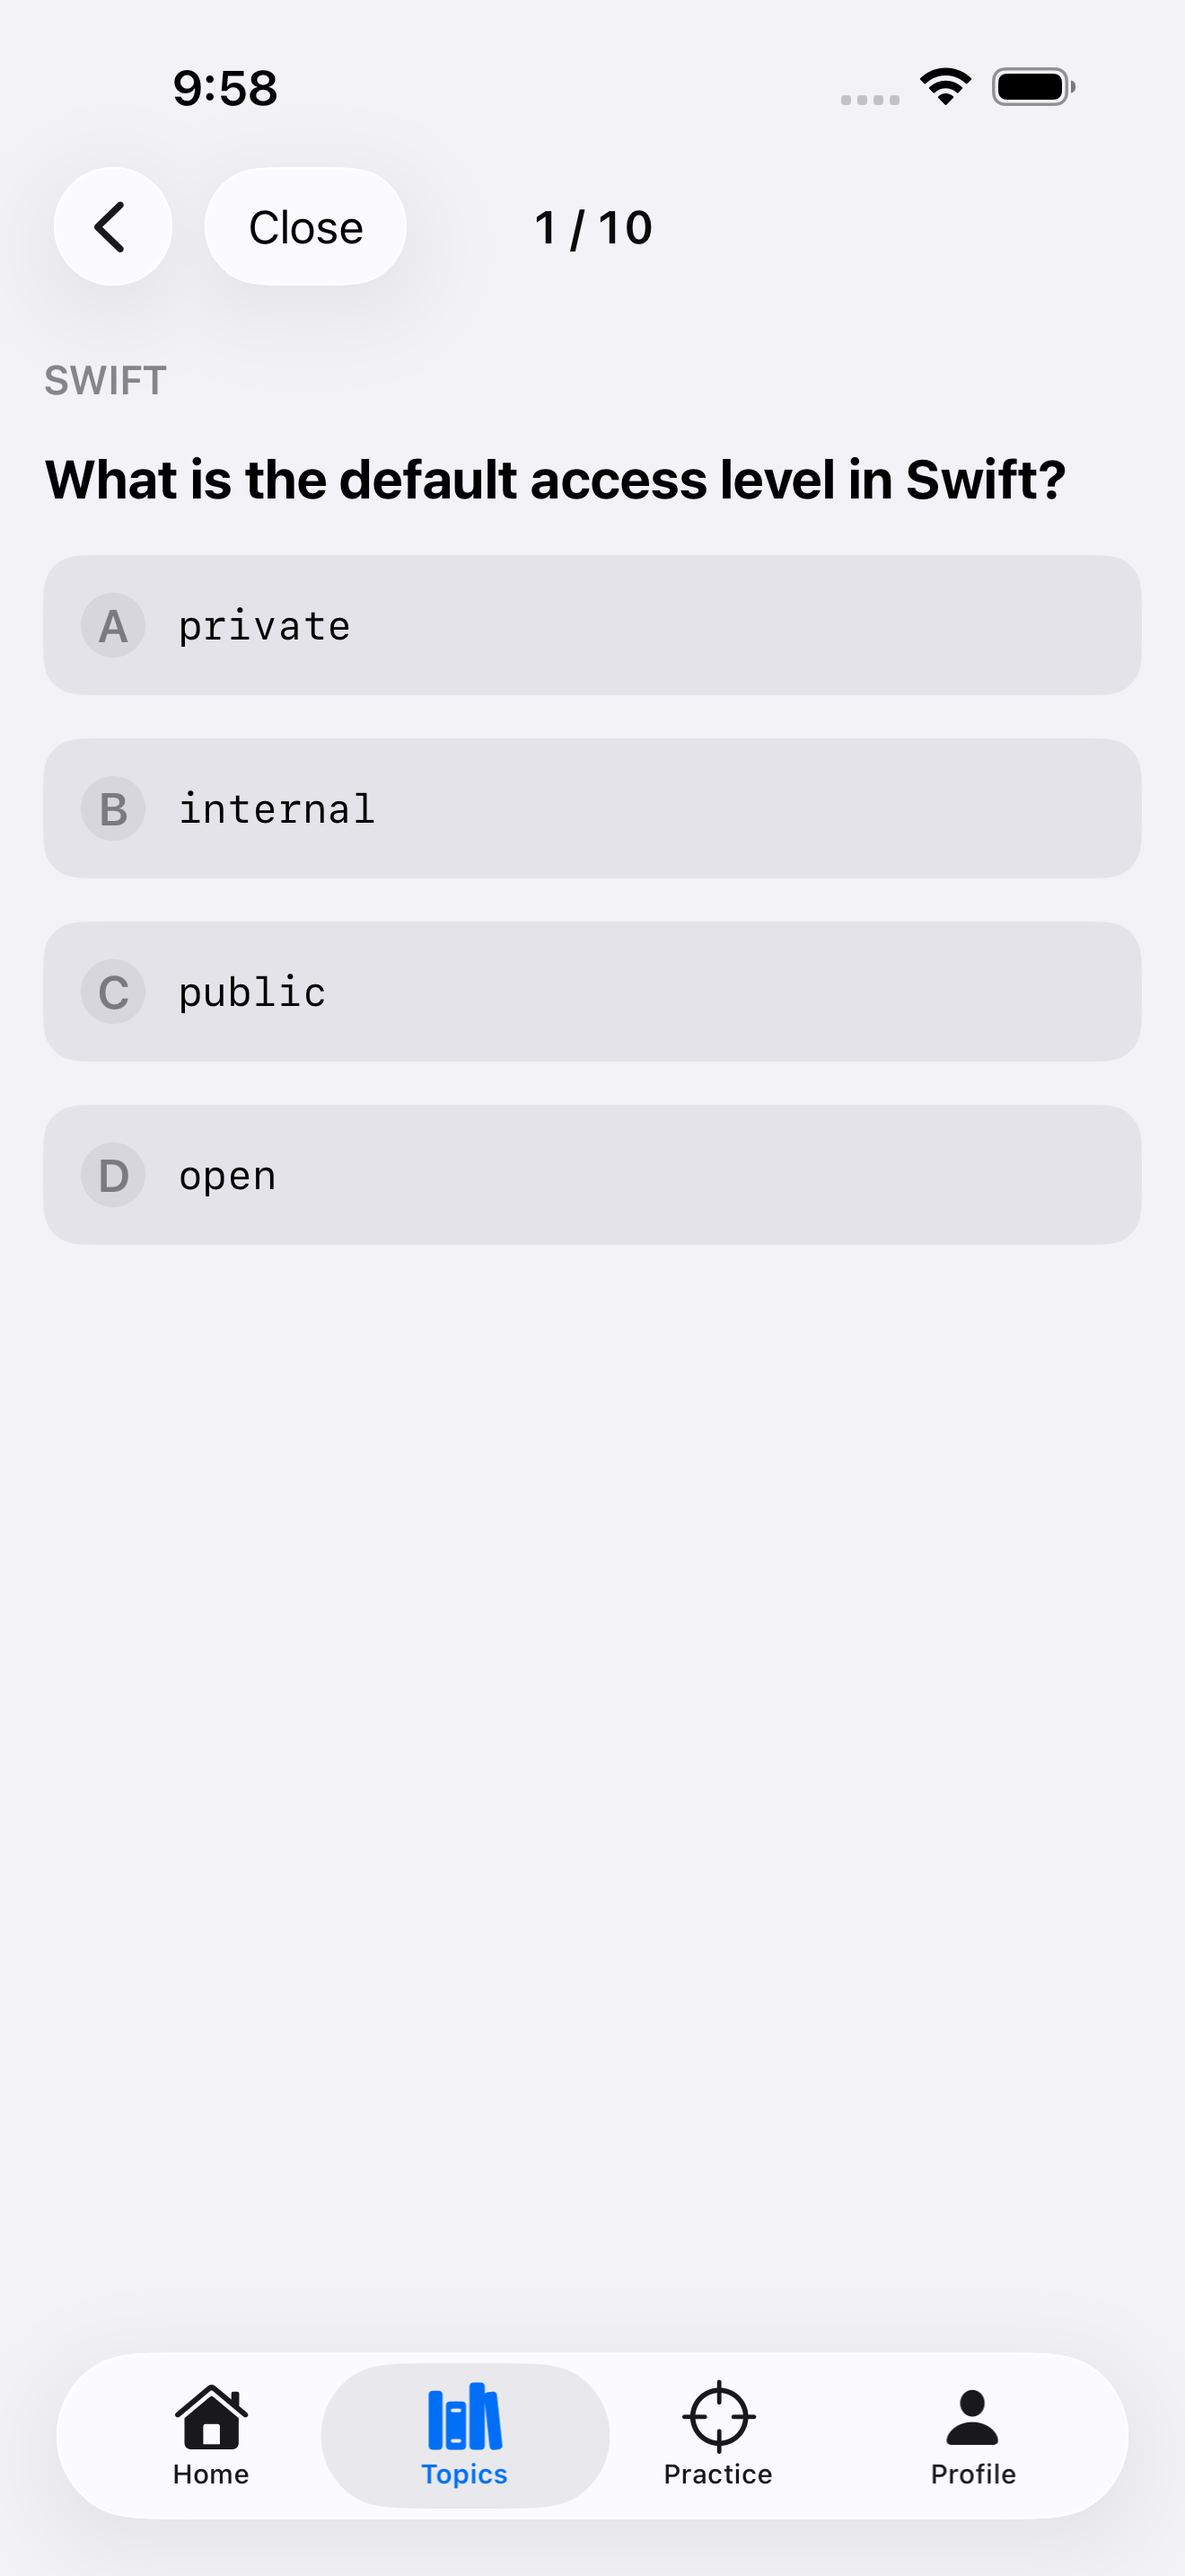
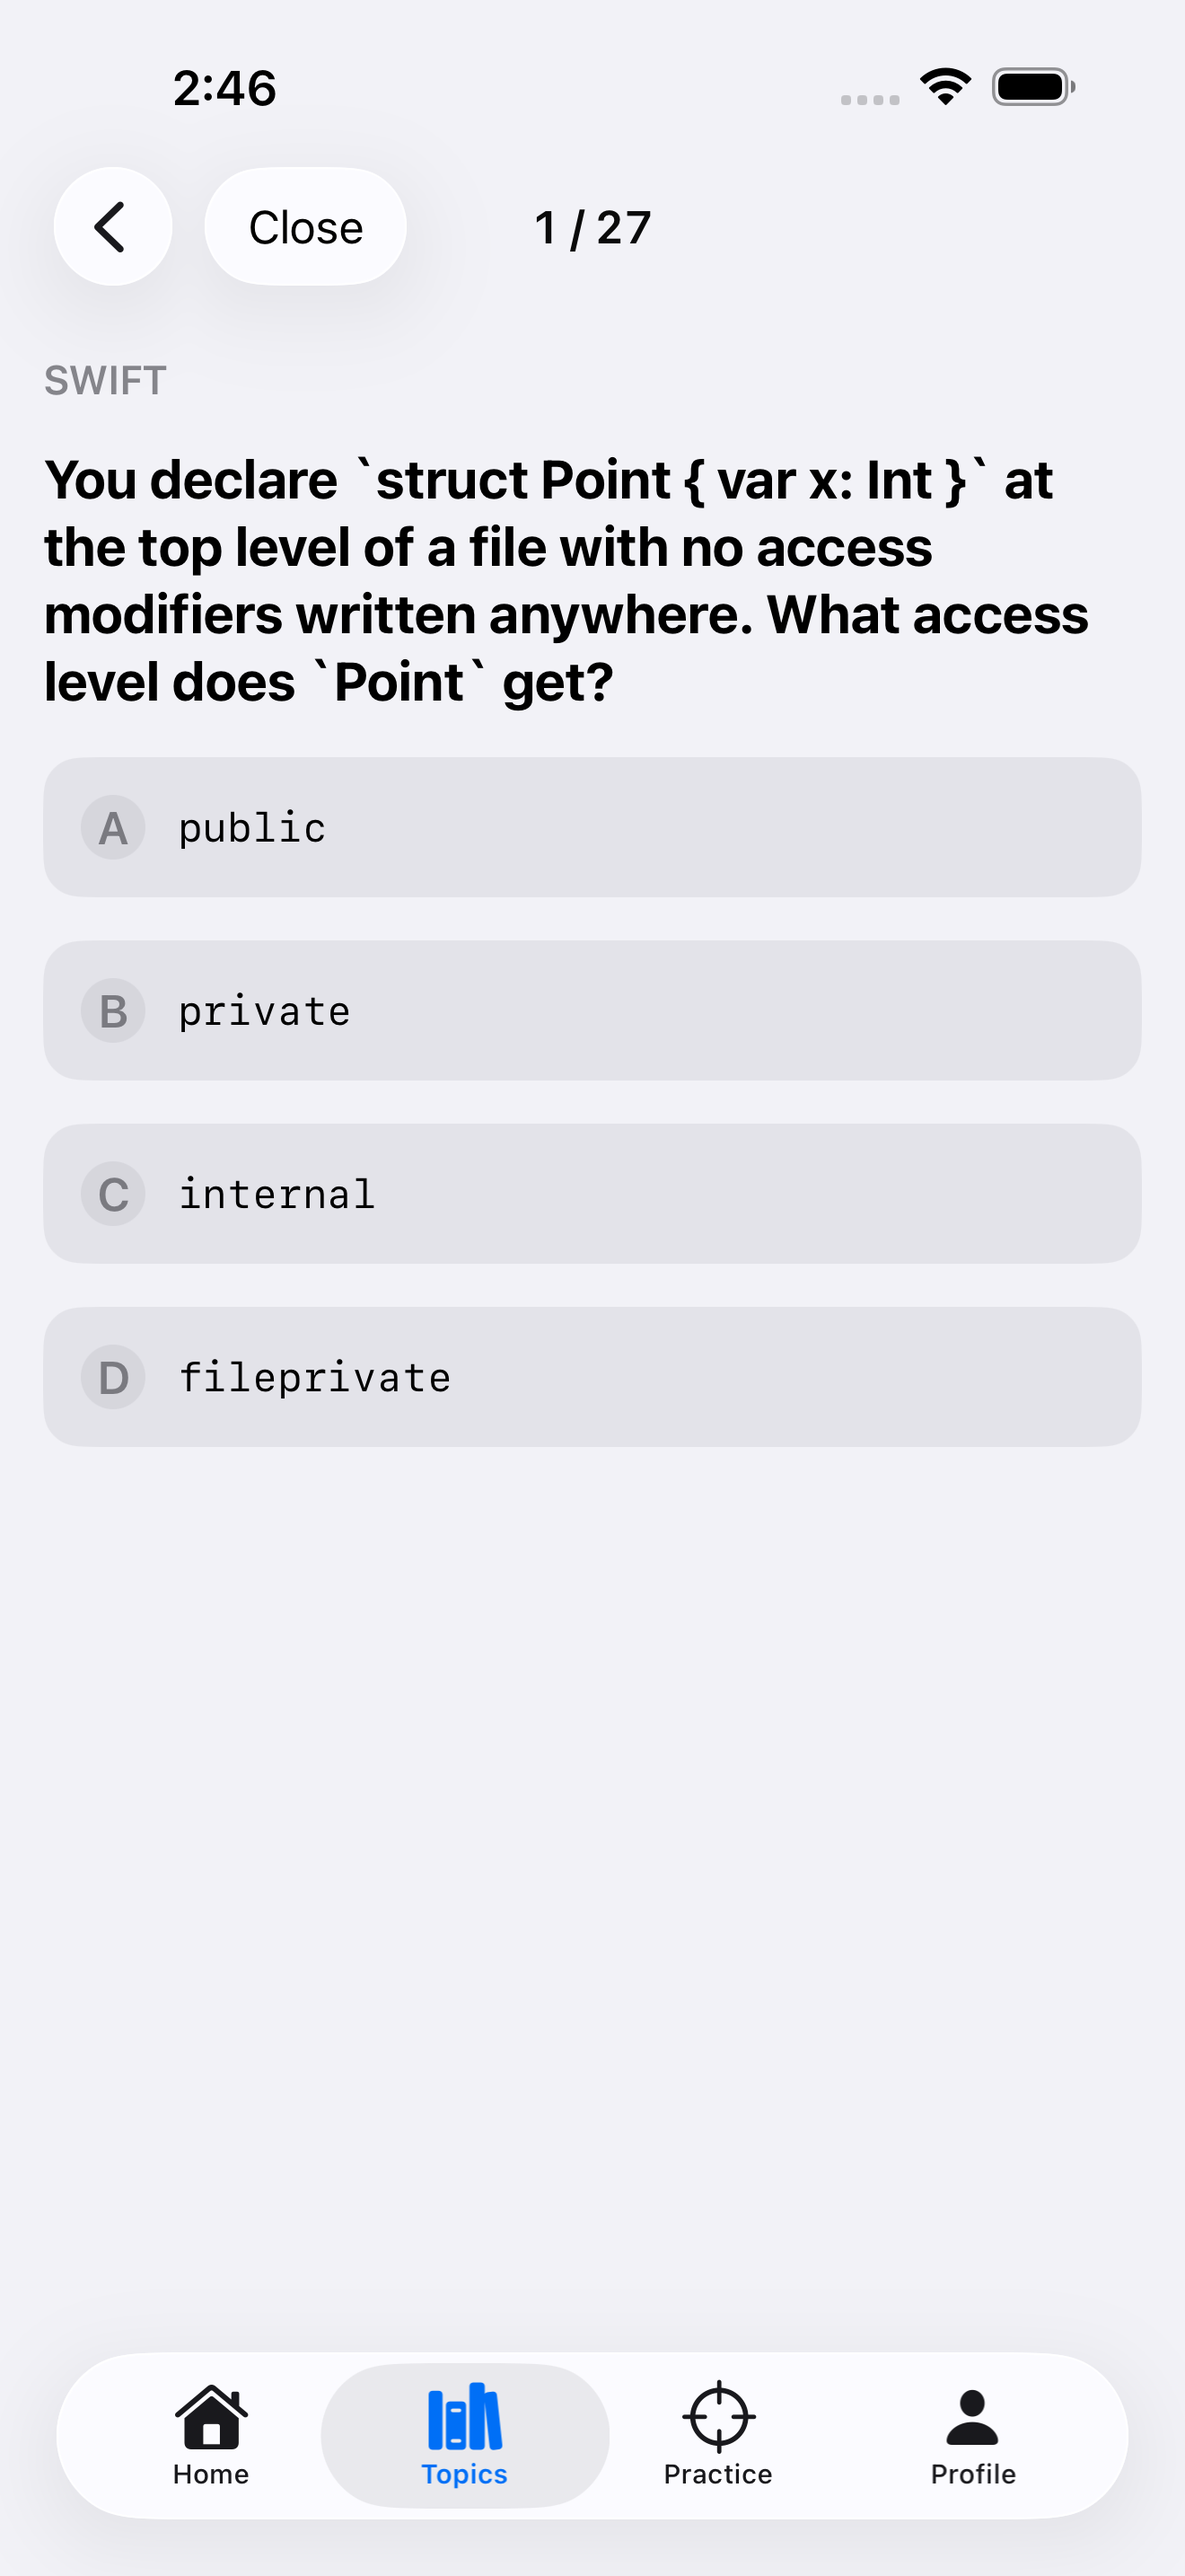
fix: update UI tests and screenshots for depth-parity content, refresh What to test
Two CallbackUITests regressions surfaced only when running the full
xcodebuild suite (per-task reviews only ran ContentValidationTests):
LessonContinueTests hardcoded Swift's old 3-lesson list, so it hit the
new 4th lesson's Up-next row instead of the expected dead end.
BehavioralDrillTests hardcoded a 10-question loop, but topic-practice-cta
drills the whole bank (now 27 questions for Behavioral). Also recaptures
the App Store screenshots (now showing the deepened content) and rewrites
"What to test" for build 21's depth-parity release.

diff --git a/Tests/CallbackUITests/BehavioralDrillTests.swift b/Tests/CallbackUITests/BehavioralDrillTests.swift
@@ -29,7 +29,9 @@ final class BehavioralDrillTests: XCTestCase {
         XCTAssertTrue(practiceCTA.waitForExistence(timeout: 10))
         practiceCTA.tap()
 
-        for i in 0..<10 {
+        // Practice drills the topic's whole bank (topic.questions.count) — 27
+        // for behavioral since the depth-parity content expansion.
+        for i in 0..<27 {
             let revealButton = app.buttons["reveal-guidance-button"]
             XCTAssertTrue(revealButton.waitForExistence(timeout: 10), "reveal button missing at question \(i)")
             revealButton.tap()

diff --git a/Tests/CallbackUITests/LessonContinueTests.swift b/Tests/CallbackUITests/LessonContinueTests.swift
@@ -14,7 +14,8 @@ final class LessonContinueTests: XCTestCase {
     private let swiftLessons = [
         "Value vs Reference Types",
         "Optionals & Unwrapping",
-        "Protocols & Generics"
+        "Protocols & Generics",
+        "Closures: Capture Semantics & Escaping"
     ]
 
     override func setUpWithError() throws {

diff --git a/docs/store-listing.md b/docs/store-listing.md
@@ -88,20 +88,17 @@ device.
 **Public link limit:** 100
 
 **What to test:**
-Two new topics: Testing and Architecture & Patterns, 4 lessons and 27 questions
-each. Your progress carries over untouched.
+The six original topics — Swift, Memory, Concurrency, SwiftUI, UIKit, and
+Behavioral — are now the same depth as Testing and Architecture & Patterns: 4
+lessons and 27 questions each, up from 3 lessons and 10. Your progress carries
+over untouched.
 
-• Topics → Testing. Lessons cover test doubles, the pyramid, async testing, and
-XCTest/Swift Testing; the question bank mixes multiple choice and short code
-questions across junior/mid/senior levels.
-• Topics → Architecture & Patterns. Lessons cover MVC/MVVM/MV, dependency
-injection, coordinators, and modularization; questions cover SOLID principles,
-composition vs. inheritance, and error/boundary design alongside DI.
-• Practice → pick either new topic for a drill, or Mock Interview to get
-questions from across all nine topics mixed together.
-• Everything from the last build is still worth a look if you haven't got to
-it: "Up next" at the bottom of a lesson should carry you through a topic;
-Practice → System Design and Behavioral; Profile → Level (Junior / Mid /
-Senior).
+• Topics → any of Swift, Memory, Concurrency, SwiftUI, UIKit, Behavioral. Each
+now has a 4th lesson and a much larger question bank across junior/mid/senior
+levels — try Practice on one you'd already finished to see the new questions.
+• Practice → Mock Interview to get questions from across all nine topics
+mixed together, now drawing from a much deeper pool.
+• Behavioral drills should feel distinctly different question-to-question —
+flag anything that reads as a near-duplicate of another prompt.
 • Anything else: backgrounding the app mid-mock (the timer should survive),
 VoiceOver, and large Dynamic Type sizes.
